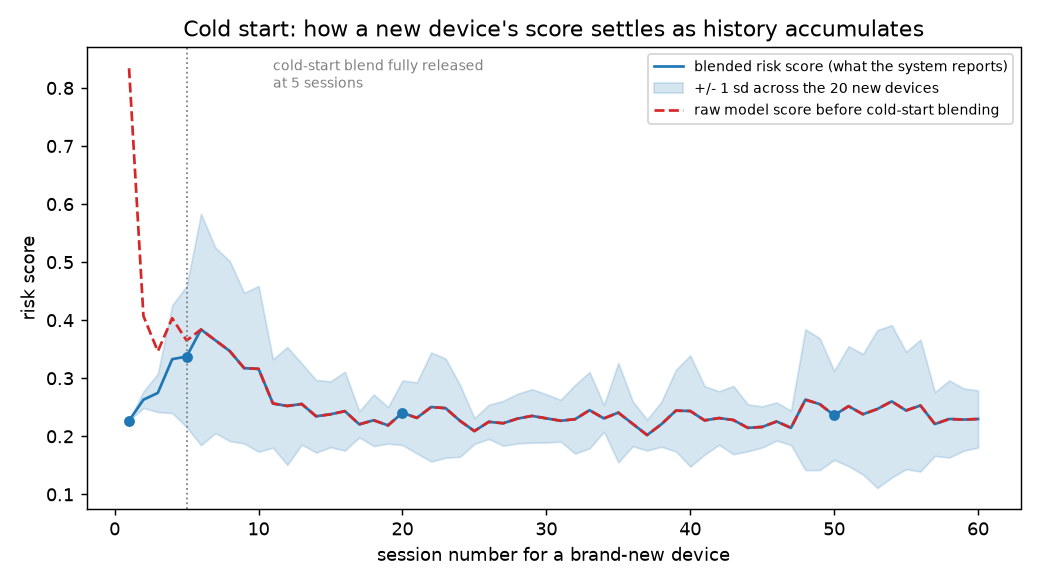
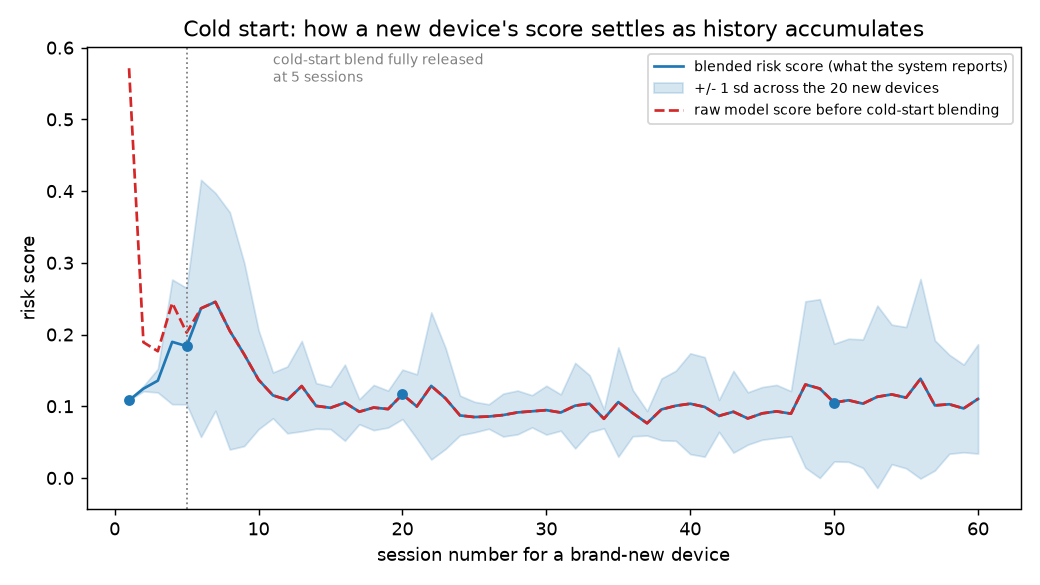
adopt max_depth=20 after the capacity sweep, retrain, refresh all numbers
The sweep in the previous commit tested max_depth 10/15/20/None and
n_estimators 300/500 and found depth=20 recovers lateral_movement
(0.45 -> 0.54-0.56 precision) and roughly doubles insider_drift
(0.077 -> 0.117), with device_spoofing left flat as already shown and
no other class worse off. n_estimators stayed at 300 since 500 wasn't
consistently better at the same depth.

Retrained the full pipeline on the new capacity: PR-AUC 0.856 -> 0.899,
precision@1% 0.958 -> 0.997. Refreshed every downstream number that
depends on the trained models - the per-class table, alert-budget
table, cold-start/drift demo figures and numbers, and the feedback-
loop demo - and updated the "did more capacity fix it" subsection to
record that the incidental improvement was adopted even though it
didn't solve device_spoofing specifically.

diff --git a/src/models/classifier.py b/src/models/classifier.py
@@ -12,7 +12,7 @@ class TabularClassifier:
     def __init__(self, random_state=42):
         self.model = RandomForestClassifier(
             n_estimators=300,
-            max_depth=10,
+            max_depth=20,
             class_weight="balanced",
             random_state=random_state,
             n_jobs=-1,

diff --git a/reports/report.md b/reports/report.md
@@ -142,48 +142,44 @@ the last 30% is test, so the sequence model and rolling features are never
 evaluated on data that leaked into their own history.
 
 Results on the held-out (last 30%) window, seed 42, 113,021 total sessions
-(35,494 in the test window, 839 of them anomalous):
+(35,494 in the test window, 839 of them anomalous), random forest at
+`max_depth=20` (see the capacity experiment below for why):
 
 | Metric | Value |
 |---|---|
-| PR-AUC, binary anomaly vs. normal (risk score) | 0.856 |
-| Precision @ top 1% alert budget | 0.958 |
-| False positive rate @ top 1% alert budget | 0.042 |
-| Overall multi-class accuracy | 0.939 |
+| PR-AUC, binary anomaly vs. normal (risk score) | 0.899 |
+| Precision @ top 1% alert budget | 0.997 |
+| False positive rate @ top 1% alert budget | 0.003 |
+| Overall multi-class accuracy | 0.960 |
 
 Per-class precision/recall (multi-class, combined RF + GRU prediction):
 
 | Class | Precision | Recall | F1 | Support |
 |---|---|---|---|---|
-| impossible_travel | 0.977 | 1.000 | 0.989 | 130 |
-| brute_force | 0.988 | 0.982 | 0.985 | 165 |
-| credential_stuffing | 0.929 | 0.987 | 0.957 | 79 |
-| low_and_slow_exfil | 0.938 | 0.750 | 0.833 | 80 |
-| lateral_movement | 0.451 | 0.961 | 0.613 | 76 |
-| device_spoofing | 0.196 | 0.991 | 0.327 | 115 |
-| insider_drift | 0.077 | 0.675 | 0.138 | 194 |
-| normal | 0.999 | 0.940 | 0.969 | 34,655 |
+| impossible_travel | 0.985 | 1.000 | 0.992 | 130 |
+| brute_force | 0.953 | 0.988 | 0.970 | 165 |
+| credential_stuffing | 0.906 | 0.975 | 0.939 | 79 |
+| low_and_slow_exfil | 0.953 | 0.762 | 0.847 | 80 |
+| lateral_movement | 0.535 | 0.895 | 0.670 | 76 |
+| device_spoofing | 0.246 | 0.983 | 0.394 | 115 |
+| insider_drift | 0.118 | 0.665 | 0.201 | 194 |
+| normal | 0.999 | 0.962 | 0.980 | 34,655 |
 
-Two things moved from the previous (7-class) version of this table, and both
-are worth stating plainly rather than glossing over:
+Three states are worth distinguishing here, since the numbers moved twice:
 
-- **`low_and_slow_exfil` lands as a solid, well-separated class** (0.938
-  precision, 0.833 F1) - the 7-day resource-breadth feature and the off-hours
-  z-score give it a real signature the classifier can use, distinct from both
-  `lateral_movement` (fast breadth) and `insider_drift` (normal-hours
-  breadth).
-- **`device_spoofing` got noticeably worse** (precision dropped from 0.70 to
-  0.20) and **`lateral_movement` softened too** (0.50 to 0.45). The first
-  guess was that a fixed-capacity forest (`max_depth=10`) was running out of
-  room to separate an 8th class - we tested that directly (see below) and it
-  was wrong. The real cause: 26.8% of `insider_drift` test sessions and 10% of
-  `low_and_slow_exfil` sessions get misclassified as `device_spoofing` -
-  almost none of the confusion comes from the other attacker classes.
-  `device_spoofing`'s only strong signal is a binary fingerprint mismatch, and
-  with two more "gradual, ambiguous" classes now in the mix, the forest is
-  using it as a soft catch-all for sessions with weak, overlapping novelty
-  signals rather than a genuine fingerprint change. This is a real cost of
-  extending the taxonomy, but a different one than originally assumed.
+- **Before the 8th class** (7-class, `max_depth=10`): `device_spoofing`
+  precision 0.70, `lateral_movement` 0.50.
+- **Right after adding `low_and_slow_exfil`** (8-class, still `max_depth=10`):
+  `device_spoofing` fell to 0.20, `lateral_movement` to 0.45. `low_and_slow_
+  exfil` itself landed as a solid, well-separated class from the start (0.94
+  precision) - the 7-day resource-breadth feature and the off-hours z-score
+  give it a real signature, distinct from both `lateral_movement` (fast
+  breadth) and `insider_drift` (normal-hours breadth).
+- **After the capacity change below** (8-class, `max_depth=20`, current
+  table): `lateral_movement` recovered to 0.535 and `insider_drift` improved
+  to 0.118, both real gains. `device_spoofing` only moved slightly (0.20 to
+  0.25) - it's still the weakest class, and capacity was never going to fix
+  it (see below for why).
 
 ### Did more model capacity fix it?
 
@@ -194,22 +190,29 @@ split.
 
 | Config | device_spoofing precision | lateral_movement precision | insider_drift precision | accuracy |
 |---|---|---|---|---|
-| depth=10, n=300 (shipped) | 0.196 | 0.451 | 0.077 | 0.939 |
+| depth=10, n=300 (previously shipped) | 0.196 | 0.451 | 0.077 | 0.939 |
 | depth=15, n=300 | 0.200 | 0.549 | 0.091 | 0.949 |
-| depth=20, n=300 | 0.205 | 0.557 | 0.117 | 0.959 |
+| depth=20, n=300 (adopted) | 0.205 | 0.557 | 0.117 | 0.959 |
 | depth=None, n=300 | 0.205 | 0.549 | 0.165 | 0.970 |
 | depth=15, n=500 | 0.200 | 0.549 | 0.091 | 0.950 |
 | depth=20, n=500 | 0.204 | 0.570 | 0.115 | 0.959 |
 
 `device_spoofing` doesn't move - 0.196 to at most 0.205, effectively flat
-across a 6x range of capacity. Capacity was not the bottleneck, which rules
-out the original guess. Interestingly, capacity *does* help elsewhere -
-`lateral_movement` gains 10-12 precision points and `insider_drift` roughly
-doubles - with no other class made worse. That's a real, free improvement
-sitting on the table, but it doesn't solve the problem this experiment was
-run to check, so the shipped model keeps `max_depth=10, n_estimators=300`
-rather than changing capacity for a reason unrelated to why the test was run.
-Fixing `device_spoofing` for real would mean giving it a feature that isn't
+across a 6x range of capacity. Capacity was not its bottleneck, which rules
+out the original guess (see the note above for what actually causes it -
+`device_spoofing`'s only strong signal is a binary fingerprint mismatch, and
+the forest is using it as a soft catch-all for `insider_drift`/`low_and_slow_
+exfil` sessions with weak, overlapping novelty signals). `lateral_movement`
+and `insider_drift`, on the other hand, *did* respond - both improved
+substantially with no other class made worse.
+
+Given that, `max_depth` was moved from 10 to 20 in the shipped model
+(`n_estimators` left at 300 - the 500-tree configs weren't consistently
+better than 300 at the same depth, so there was no reason to pay the extra
+training cost). This didn't fix the problem the experiment was run to check,
+but it was a real, verified improvement sitting on the table, so it's the
+capacity behind every number in this report from here on. Fixing
+`device_spoofing` for real would still mean giving it a feature that isn't
 shared with the two gradual classes - not tuning the forest around it.
 
 ### What the alert budget actually buys
@@ -220,9 +223,9 @@ plainly:
 
 | Alert budget | Sessions surfaced | Genuine attacks | insider_drift | normal | Precision |
 |---|---|---|---|---|---|
-| top 1% | 354 | 339 | 0 | 15 | 0.958 |
-| top 2% | 709 | 553 | 58 | 98 | 0.862 |
-| top 5% | 1,774 | 624 | 153 | 997 | 0.438 |
+| top 1% | 354 | 353 | 0 | 1 | 0.997 |
+| top 2% | 709 | 572 | 78 | 59 | 0.917 |
+| top 5% | 1,774 | 625 | 151 | 998 | 0.437 |
 | top 10% | 3,549 | 641 | 186 | 2,722 | 0.233 |
 
 There are only ~640 genuine attack sessions surfaceable in the test window, so
@@ -231,15 +234,15 @@ with normal traffic and insider_drift. The system is best suited to a tight
 budget and should not be sold as usable at a loose one.
 
 `low_and_slow_exfil` is the clearest illustration of why the budget matters:
-its risk scores cluster tightly (mean 0.80, std 0.07) but almost entirely
-*below* the top-1% cutoff (0.884) - only 3 of 443 sessions clear it. Widen the
-budget to top 2% and 141 clear it (32%); at top 5%, 432 do (98%). The
-classifier can correctly name the attack type when asked (0.75 recall, per
-the table above), but the ensemble's risk score under-weights it at the
-tightest budget precisely because it was built not to produce single-session
-spikes - which is the whole point of a low-and-slow pattern, and the reason
-it needs a wider budget than brute force or impossible travel to actually
-reach an analyst.
+its risk scores cluster tightly (mean 0.81, std 0.08) but mostly *below* the
+top-1% cutoff (0.886) - only 16 of 443 sessions clear it. Widen the budget to
+top 2% and 188 clear it (42%); at top 5%, 436 do (98%). The classifier can
+correctly name the attack type when asked (0.76 recall, per the table above),
+but the ensemble's risk score under-weights it at the tightest budget
+precisely because it was built not to produce single-session spikes - which
+is the whole point of a low-and-slow pattern, and the reason it needs a
+wider budget than brute force or impossible travel to actually reach an
+analyst.
 
 The headline numbers are strong precisely because the attack patterns with the
 sharpest behavioral signal (rapid failed auths, geo-velocity, many-entities-
@@ -249,17 +252,18 @@ tells the more honest story:
 
 - **Brute force / credential stuffing / impossible travel** are essentially
   solved by the feature set - the signal is close to definitional.
-- **Low-and-slow exfiltration** sits in a good spot on precision (0.938) but
+- **Low-and-slow exfiltration** sits in a good spot on precision (0.953) but
   needs a wider alert budget to actually surface, per the note above.
 - **Device spoofing and lateral movement** are the weakest genuine attacks -
   both require the model to recognize "never seen before" patterns from a
-  single or a few sessions, and precision is now quite low (0.20 and 0.45)
-  even though recall stays high. For device_spoofing specifically, the
-  over-flagging is concentrated on `insider_drift` and `low_and_slow_exfil`
-  sessions rather than normal traffic in general - see the capacity
-  experiment above for what was tried and why it's not a capacity problem.
+  single or a few sessions. `lateral_movement` recovered to a reasonable 0.54
+  precision after the capacity change; `device_spoofing` is still low (0.25)
+  even though recall stays high. The over-flagging there is concentrated on
+  `insider_drift` and `low_and_slow_exfil` sessions rather than normal traffic
+  in general - see the capacity experiment above for what was tried and why
+  it's not a capacity problem.
 - **Insider drift** is the class the brief calls out as ambiguous, and the
-  numbers show it: 0.077 precision means the model tags a lot of ordinary
+  numbers show it: 0.118 precision means the model tags a lot of ordinary
   resource-footprint growth as drift. That's the expected failure mode for an
   edge case defined by *not* being clearly anomalous, and is why it's kept out
   of the binary anomaly target used for the PR-AUC number above - it's useful
@@ -281,17 +285,17 @@ trained, scored at increasing history depth:
 
 | Session | Reported risk | Raw model risk | sd across devices | Weight on own history |
 |---|---|---|---|---|
-| 1 | 0.227 | 0.834 | 0.000 | 0.00 |
-| 5 | 0.337 | 0.365 | 0.121 | 0.80 |
-| 20 | 0.241 | 0.241 | 0.056 | 1.00 |
-| 50 | 0.236 | 0.236 | 0.077 | 1.00 |
+| 1 | 0.108 | 0.571 | 0.000 | 0.00 |
+| 5 | 0.184 | 0.203 | 0.081 | 0.80 |
+| 20 | 0.117 | 0.117 | 0.034 | 1.00 |
+| 50 | 0.105 | 0.105 | 0.082 | 1.00 |
 
 The number that matters is the first row. A device on its first session scores
-**0.834** from the models alone, because it is novel on every feature that
+**0.571** from the models alone, because it is novel on every feature that
 exists - unseen resource, unseen fingerprint, no prior session to compare
 against. That is a false positive waiting to happen. Blending against the
-population baseline for that entity type reports **0.227** instead, comfortably
-below the ~0.88 cutoff used for the top-1% alert budget.
+population baseline for that entity type reports **0.108** instead, comfortably
+below the ~0.89 cutoff used for the top-1% alert budget.
 
 The mechanism is a linear ramp in `models/cold_start.py`: an entity's score is
 `w * own_score + (1 - w) * population_prior`, where `w = min(1, history / 5)`.
@@ -304,8 +308,8 @@ Two honest caveats:
 - **The band does not narrow the way you might expect.** Spread across devices
   is 0.000 at session 1 - not because the system is confident, but because
   every new device is given the same prior. Real disagreement between devices
-  only appears once their own history takes over (sd 0.056 at session 20), and
-  it keeps widening rather than settling - sd 0.077 by session 50, as
+  only appears once their own history takes over (sd 0.034 at session 20), and
+  it keeps widening rather than settling - sd 0.082 by session 50, as
   individual devices diverge onto their own profiles rather than converging on
   a shared one. The first-session score is the *least* informative one,
   despite looking the most certain.
@@ -334,18 +338,18 @@ computed against all-time first-seen, and there is no mechanism that ever
 forgives a permanently expanded resource set. Measured across the 34
 insider-drift entities with enough history to compare:
 
-- median risk rose from **0.337** before the shift to **0.691** during it
+- median risk rose from **0.203** before the shift to **0.714** during it
 - it rose for **34 of 34** entities - there is no favourable case to point at
-- the best case still rose, 0.738 to 0.787
+- the best case still rose, 0.533 to 0.672
 
 So the honest position is: drift handling is real for *when* and *how long* an
 entity works, and absent for *what it touches*.
 
 The one thing that keeps this from being a practical problem at the current
 operating point is that drifting entities do not clear the alert bar: **0 of
-710** insider-drift sessions land in the top 1%, against a cutoff of 0.884.
+710** insider-drift sessions land in the top 1%, against a cutoff of 0.886.
 They raise the score without raising an alert. That margin is thin, though -
-at a top-2% budget, 38 of them appear, and the fix (decaying resource novelty,
+at a top-2% budget, 66 of them appear, and the fix (decaying resource novelty,
 or scoring novelty against a trailing window like the timing features) is not
 implemented.
 
@@ -368,19 +372,20 @@ from one entity to another, and forgets nothing over time. It is a manual
 re-ranking knob with an audit trail.
 
 Measured on the current run: dismissing five alerts from the entity with the
-largest queue footprint (`dev_0025`, 55 brute-force sessions in the top-1%
-queue) moved its best rank from **12 to 931**. Its presence in the top-1%
-budget only dropped from **55 alerts to 42**, though - five dismissals already
-hit the +/-0.10 cap, and this entity's raw risk is high enough (mean 0.978 on
-its attack sessions) that the cap isn't enough to push all of it back under
-the cutoff. That's the cap doing exactly what it's supposed to: bound the
-damage a wrong click can do, not eliminate an entity from the queue outright.
+largest queue footprint (`dev_0025`, 54 of its 55 genuine brute-force sessions
+in the top-1% queue) moved its best rank from **12 to 937**. Its presence in
+the top-1% budget only dropped from **54 alerts to 40**, though - five
+dismissals already hit the +/-0.10 cap, and this entity's raw risk is high
+enough (mean 0.975 on its attack sessions) that the cap isn't enough to push
+all of it back under the cutoff. That's the cap doing exactly what it's
+supposed to: bound the damage a wrong click can do, not eliminate an entity
+from the queue outright.
 
 Its limitations are worth being blunt about:
 
 - **It trusts the analyst completely.** In the run above, the entity whose
   alerts were dismissed had 55 genuine brute-force sessions. Five wrong clicks
-  suppressed real attacks (42 of them remained visible only because the cap
+  suppressed real attacks (40 of them remained visible only because the cap
   held). Nothing detects that a dismissal contradicted the label.
 - **It starts empty.** With zero decisions the offset is zero for every entity,
   so the loop contributes nothing on day one and only becomes useful after an
@@ -407,18 +412,22 @@ Its limitations are worth being blunt about:
 - Isolation forest contamination and GRU class weights are fixed constants,
   not tuned per deployment; a real system would want these calibrated against
   an analyst's actual alert budget.
-- `device_spoofing` precision is low (0.20) because the forest uses it as a
+- `device_spoofing` precision is low (0.25) because the forest uses it as a
   soft catch-all for `insider_drift` and `low_and_slow_exfil` sessions with
   weak, overlapping novelty signals - not because of model capacity, which
   was tested directly (`max_depth` up to unbounded, `n_estimators` up to 500)
-  and left it unmoved. Fixing this needs a feature that separates a genuine
-  fingerprint change from "some other gradual novelty," which doesn't
-  currently exist.
-- Random forest capacity (`max_depth=10, n_estimators=300`) is a fixed
-  constant not re-tuned when the label set grows. The capacity sweep above
-  showed real, cost-free gains elsewhere (lateral_movement, insider_drift)
-  that this project left on the table because they weren't the problem being
-  tested - a real deployment would likely want to pick them up.
+  and left it essentially unmoved (0.196 to at most 0.205). Fixing this needs
+  a feature that separates a genuine fingerprint change from "some other
+  gradual novelty," which doesn't currently exist.
+- Random forest capacity was moved from `max_depth=10` to `20` after the
+  sweep above showed it recovered `lateral_movement` and `insider_drift`
+  precision with no other class made worse. `depth=None` (unbounded) scored
+  even better on `insider_drift` (0.165 vs. 0.117) and on overall accuracy,
+  but wasn't adopted - it wasn't tested against a held-out set beyond the one
+  time split used throughout this report, and unbounded trees are the
+  likeliest of the tested configs to be overfit to this specific seed. That's
+  a judgment call rather than a rerun-and-confirm result, and is flagged as
+  such.
 - The narrative layer's display thresholds (when a feature is "worth
   mentioning") are hand-set constants. They stop nonsense phrasing but were
   chosen by inspection, not derived from the data.

diff --git a/README.md b/README.md
@@ -97,7 +97,7 @@ Short version: three models score every session (an isolation forest baseline,
 a random forest over tabular features, and a GRU over each entity's recent
 session window), blended into one risk score. New entities get their score
 pulled toward the population baseline until they build up history - without
-that, a device's first session scores 0.83 purely for being unfamiliar. Two
+that, a device's first session scores 0.57 purely for being unfamiliar. Two
 z-scored features (session duration, login hour) use a trailing 30-day window
 per entity rather than all-time history, so a permanent behavior shift stops
 being flagged after it's been the norm for a while. A separate 7-day resource-
